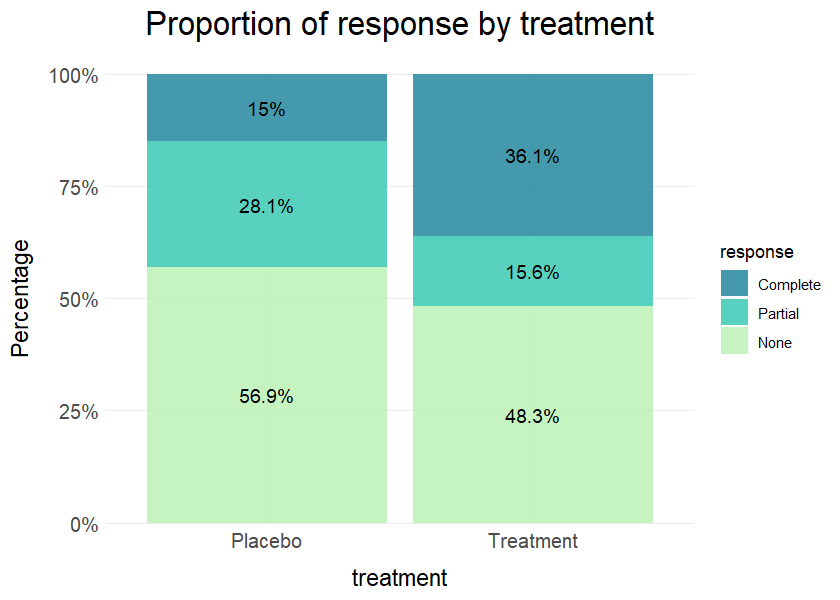
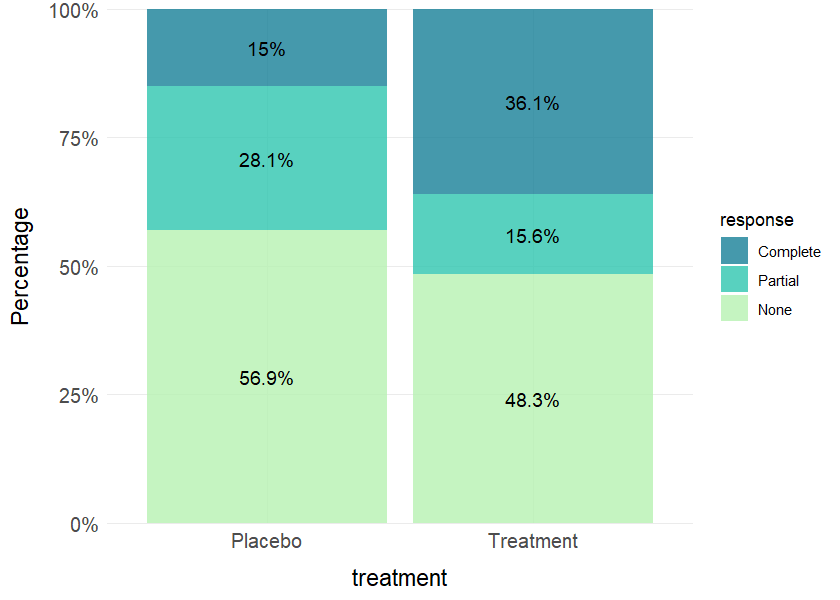
Update README and JOSS paper

diff --git a/paper.md b/paper.md
@@ -71,25 +71,25 @@ typically requires combining multiple packages with different syntax conventions
 , output formats, and integration patterns. As a result, analysts frequently 
 develop custom code to connect results, automate recurring tasks, or standardize
 outputs across studies. This fragmentation can lead to inconsistent 
-implementations, duplicated effort, and increased time spent on code development
-, validation, and quality control.
+implementations, duplicated effort, and increased time spent on code development,
+validation, and quality control.
 
-The biostats package addresses these challenges by providing a unified, 
+The _**biostats**_ package addresses these challenges by providing a unified, 
 clinically oriented framework that consolidates commonly used biostatistical 
 procedures into a single, coherent toolkit. While users still retain full 
-flexibility to write custom code tailored to study-specific needs, biostats is 
+flexibility to write custom code tailored to study-specific needs, _**biostats**_ is 
 designed to streamline repetitive and foundational tasks in biostatistics and 
 clinical data analysis through consistent syntax, harmonized outputs, and 
 functions that reflect standard clinical workflows. Its goal is to deliver a 
 professional-grade toolset for biostatisticians and clinical researchers while 
-remaining accessible to data analysts from other fields. In addition, biostats 
+remaining accessible to data analysts from other fields. In addition, _**biostats**_ 
 serves as an educational resource for users transitioning to R or to 
 biostatistics, offering a structured and reproducible approach aligned with 
 contemporary recommendations for transparent and rigorous statistical practice.
 
 # State of the field
 
-Regarding the specific functions in this package, biostats differs from existing
+Regarding the specific functions in this package, _**biostats**_ differs from existing
 packages such as ez [@ez:2016], rstatix [@rstatix:2023], ggblanket 
 [@ggblanket:2025], ggpubr [@ggpubr:2025], extras [@extras:2025], 
 SampleSize4ClinicalTrials [@SampleSize4ClinicalTrials:2021], TrialSize 
@@ -101,11 +101,11 @@ interpretation, and thorough, beginner-friendly documentation.
 The functions *sample_size()*, *sample_size_range()*, *effect_measures()* and 
 *normality()* propose a composite approach to variable evaluation. In many 
 existing packages these analyses are implemented through separate functions 
-depending on specific statistical tests or methods. For example, normality 
-assessment via distinct tests (e.g., Shapiro–Wilk, Kolmogorov–Smirnov), kurtosis
-measures, or independent graphical analyses, sample size calculations through 
-functions tailored to individual study designs, and effect measures evaluated 
-separately for each type of association. In contrast, the biostats package 
+dependent on specific statistical tests or methods. For example, normality 
+assessment via distinct tests (e.g. Shapiro–Wilk, Kolmogorov–Smirnov), kurtosis
+measures, or independent graphical analyses; sample size calculations through 
+functions tailored to individual study designs; and effect measures evaluated 
+separately for each type of association. In contrast, the _**biostats**_ package 
 unifies these analysis within single functions, providing a unified, consistent,
 and streamlined workflow.
 
@@ -115,7 +115,7 @@ evaluates data using minimally specified parameters, returns the corresponding
 model’s analysis, reports observed values per each assumption, runs appropriate 
 post-hoc tests, and  presents the results in an clear and easy-to-follow format.  
 
-The *missing_values()*, *outliers()* and *summary_table()* functions present data and 
+The *missing_values()*, *outliers()*, and *summary_table()* functions present data and 
 analysis in a clean and organized format with professional visual outputs, as 
 opposed to other alternatives that only return raw values without formatting or 
 graphical complements.
@@ -131,7 +131,7 @@ customize ggplot2 objects.
 
 # Software Design
 
-The biostats package was designed to balance analytical rigor, usability, and 
+The _**biostats**_ package was designed to balance analytical rigor, usability, and 
 reproducibility in applied biostatistics and other analytical fields where these
 tools could also be useful. The structure of the package follows a unified, 
 workflow-oriented design, where each function performs a complete analytical 
@@ -154,7 +154,7 @@ clinical data analysis.
 
 # Research Impact Statement
 
-The biostats package has been released on CRAN (current version: 1.1.1), 
+The _**biostats**_ package has been released on CRAN (current version: 1.1.1), 
 ensuring standardized installation, long-term availability, and seamless 
 integration within the R ecosystem. It is also publicly available and 
 maintained on GitHub, where it is accompanied by reproducible examples, 
@@ -196,15 +196,14 @@ ratios, and Cramer’s V.
 *missing_values()* visualizes missing data patterns, *outliers()* identifies extreme
 values using Tukey's method with customizable thresholds, and *normality()* 
 performs an assessment of distributions with Q-Q plots, histograms, and multiple
-diagnostic tests based on the recommendations mentioned by Mishra P. et al 
-(2019) and methods by Lilliefors, H.W. (1967) and Dallal, G.E. & Wilkinson, L. 
-(1986).
+diagnostic tests based on the recommendations mentioned by @Mishra:2019 and 
+methods by @Lilliefors:1967 and @Dallal:1986.
 
 ## Sample Size and Power Calculation
 
 *sample_size()* and *sample_size_range()* are specifically focused on sample 
-size calculation for clinical trials based on the equations in Chow et al. 
-(2017), supporting equality, equivalence, and non-inferiority/superiority 
+size calculation for clinical trials based on the equations in @Chow:2017,
+supporting equality, equivalence, and non-inferiority/superiority 
 hypothesis, with parallel or crossover designs, and evaluating outcomes 
 specified in means or proportions.
 
@@ -212,13 +211,12 @@ specified in means or proportions.
 
 *omnibus()* performs multi-group hypothesis testing to evaluate overall 
 differences among three or more groups, with the theory behind this function 
-being influenced by the works of Blanca M. et al. (2017) and Field A. (2012). 
-This function automatically conducts assumption diagnostics and selects the 
-appropriate statistical test based on data characteristics. It supports both 
-independent and repeated-measures designs and applies one-way ANOVA, 
-repeated-measures ANOVA, Kruskal–Wallis test, or Friedman test as appropriate. 
-When significant effects are detected, *omnibus()* also performs post-hoc 
-comparisons.
+being influenced by the works of @Blanca:2017 and @Field:2012. This function 
+automatically conducts assumption diagnostics and selects the appropriate 
+statistical test based on data characteristics. It supports both independent and
+repeated-measures designs and applies one-way ANOVA, repeated-measures ANOVA, 
+Kruskal–Wallis test, or Friedman test as appropriate. When significant effects 
+are detected, *omnibus()* also performs post-hoc comparisons.
 
 ![Omnibus function test selection algorithm for multi-group comparisons.](figures/figure2.png)
 
@@ -450,52 +448,29 @@ plot_corr(data = swiss, type = "lower", show_sig = TRUE, sig_only = TRUE)
 ```
 ![](figures/figure11.png){ width=60% }
 
-# AI usage disclosure
-
-Generative AI tools were used during the development of the biostats R package 
-to assist with code refinement, debugging, automated tests, and the 
-configuration of continuous integration and continuous deployment (CI/CD) 
-workflows within GitHub through GitHub actions. These tools were also used to 
-review and improve the final manuscript. All AI-generated suggestions were 
-carefully reviewed, modified, and validated manually by the authors. The authors
-assume full responsibility and accountability for the reliability, integrity, 
-and maintenance of the software provided.  
-
-# Citations
-
-Citations to entries in paper.bib should be in
-[rMarkdown](http://rmarkdown.rstudio.com/authoring_bibliographies_and_citations.html)
-format.
-
-If you want to cite a software repository URL (e.g. something on GitHub without a preferred
-citation) then you can do it with the example BibTeX entry below for @fidgit.
-
-For a quick reference, the following citation commands can be used:
-- `@author:2001`  ->  "Author et al. (2001)"
-- `[@author:2001]` -> "(Author et al., 2001)"
-- `[@author1:2001; @author2:2001]` -> "(Author1 et a l., 2001; Author2 et al., 2002)"
-
-# Figures
-
-Figures can be included like this:
-![Caption for example figure.\label{fig:example}](figure.png)
-and referenced from text using \autoref{fig:example}.
-
-Figure sizes can be customized by adding an optional second parameter:
-![Caption for example figure.](figure.png){ width=20% }
-
 # License and Availability
 
-The biostats package is distributed under an MIT license, with source code 
+The _**biostats**_ package is distributed under an MIT license, with source code 
 available through [GitHub](https://github.com/sebasquirarte/biostats). 
 
 # Acknowledgements
 
 The authors wish to acknowledge the R open-source community for their ongoing 
-maintenance of the packages upon which biostats depends, and for their continued
+maintenance of the packages upon which _**biostats**_ depends, and for their continued
 commitment to transparency and reproducibility in scientific research. Gratitude
 is also extended to Laboratorios Sophia S.A. de C.V. for supporting the authors 
 through salaries and employment, and for fostering an environment that promotes 
 innovation, open-source development, and open science.
+
+# AI usage disclosure
+
+Generative AI tools were used during the development of the _**biostats**_ R package 
+to assist with code refinement, debugging, automated tests, and the 
+configuration of continuous integration and continuous deployment (CI/CD) 
+workflows through GitHub actions. These tools were also used to 
+review and improve the final manuscript. All AI-generated suggestions were 
+carefully reviewed, modified, and validated manually by the authors. The authors
+assume full responsibility and accountability for the reliability, integrity, 
+and maintenance of the software provided.  
 
 # References

diff --git a/README.md b/README.md
@@ -824,8 +824,7 @@ Generates publication-ready bar plots with minimal code using ggplot2.
 clinical_df <- clinical_data()
 
 # Proportion of response by treatment
-plot_bar(data = clinical_df, x = "treatment", group = "response", position = "fill", 
-         title = "Proportion of response by treatment", values = TRUE)
+plot_bar(data = clinical_df, x = "treatment", group = "response", position = "fill", values = TRUE)
 ```
 
 <img src="man/figures/README-unnamed-chunk-24-1.png" width="75%" />
@@ -833,8 +832,7 @@ plot_bar(data = clinical_df, x = "treatment", group = "response", position = "fi
 ``` r
 
 # Grouped barplot of categorical variable by treatment with value labels
-plot_bar(data = clinical_df, x = "response", group = "visit", facet = "treatment", 
-         title = "Response by visit and treatment",values = TRUE)
+plot_bar(data = clinical_df, x = "response", group = "visit", facet = "treatment", values = TRUE)
 ```
 
 <img src="man/figures/README-unnamed-chunk-24-2.png" width="75%" />
